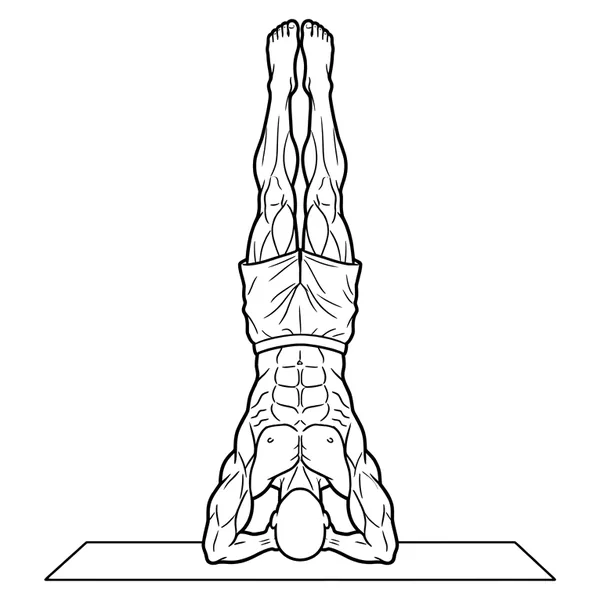
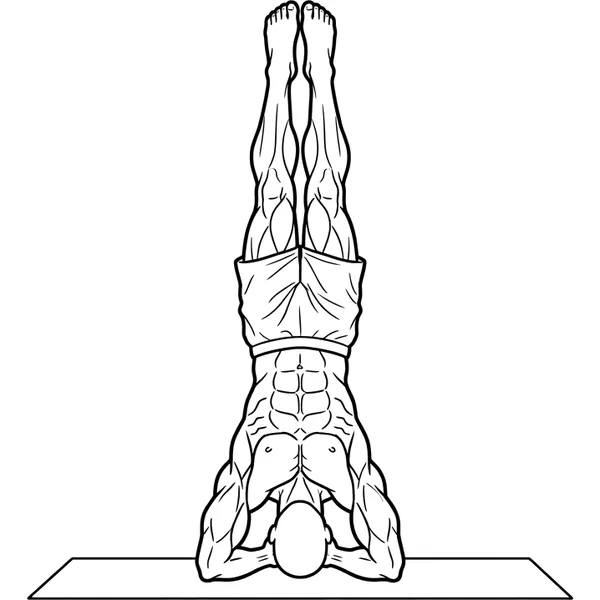
0.60.27: gemelos sentado (el peso sube) y sentadilla en multipower con foto de modelo; elevacion de gemelos que sube mas; sobre la cabeza alterna dos vistas cada 2 s; cabeza a la rodilla con la frente en la rodilla

Changed region(s): [[0.03, 0.0, 0.96, 1.0]]

diff --git a/web/sw.js b/web/sw.js
@@ -7,12 +7,12 @@
 // Solo se ocupa del CÓDIGO de la app. Los datos del usuario nunca pasan por
 // aquí: viven en el dispositivo (IndexedDB) y en su Google Drive.
 
-const VERSION = '0.60.26';
+const VERSION = '0.60.27';
 const CACHE = `entreno-${VERSION}`;
 // Las imágenes van en un almacén aparte que NO se borra al actualizar la app:
 // así se ven sin conexión aunque haya salido una versión nueva.
 // Si cambian las imágenes, se sube el número y los móviles bajan las nuevas.
-const CACHE_IMAGENES = 'entreno-imagenes-35';  // el mismo nombre en app.js (guardarImagenesParaSinConexion)
+const CACHE_IMAGENES = 'entreno-imagenes-36';  // el mismo nombre en app.js (guardarImagenesParaSinConexion)
 
 const ARCHIVOS = [
   './',

diff --git a/web/js/app.js b/web/js/app.js
@@ -236,7 +236,7 @@ async function guardarImagenesParaSinConexion() {
     const capas = Object.entries(MUSCULOS).flatMap(([clave, m]) => m.vistas.map((v) => archivoCapa(clave, v)));
     const cuerpo = ['imagenes/musculos/cuerpo-delante.svg', 'imagenes/musculos/cuerpo-detras.svg'];
     // El mismo nombre que CACHE_IMAGENES en sw.js: si no, el service worker lo borra.
-    const cache = await caches.open('entreno-imagenes-35');
+    const cache = await caches.open('entreno-imagenes-36');
     for (const ruta of [...cuerpo, ...capas, ...mios]) {
       if (!(await cache.match(ruta, { ignoreSearch: true }))) {
         const r = await fetch(ruta).catch(() => null);

diff --git a/web/js/version.js b/web/js/version.js
@@ -1,3 +1,3 @@
 // Versión del código de la app. Se sube en cada publicación y debe coincidir
 // con VERSION en sw.js, que es lo que hace que los móviles se actualicen.
-export const VERSION_APP = '0.60.26';
+export const VERSION_APP = '0.60.27';

diff --git a/herramientas/imagenes_ia.py b/herramientas/imagenes_ia.py
@@ -22,7 +22,7 @@ import json
 import pathlib
 import sys
 
-from PIL import Image
+from PIL import Image, ImageSequence
 
 sys.path.insert(0, str(pathlib.Path(__file__).parent))
 from animar_imagenes import mascara  # noqa: E402
@@ -244,6 +244,28 @@ def animar_mismo_lienzo(a, b, salida, tope=600, margen=24):
     marcos[0].save(salida, "WEBP", save_all=True, append_images=marcos[1:], duration=[900, 900], loop=0, quality=82, method=6)
 
 
+def partir_en_tres(im):
+    """Tres figuras en fila: corta por los dos huecos en blanco más anchos (uno en cada mitad)."""
+    tinta = mascara(im, 200)
+    ancho, alto = tinta.size
+    columnas = [sum(1 for y in range(0, alto, 2) if tinta.getpixel((x, y))) for x in range(ancho)]
+
+    def hueco(desde, hasta):
+        mejor, inicio, tramo = 0, None, (desde + hasta) // 2
+        for x in range(desde, hasta):
+            if columnas[x] <= 1:
+                inicio = x if inicio is None else inicio
+                if x - inicio > mejor:
+                    mejor, tramo = x - inicio, (inicio + x) // 2
+            else:
+                inicio = None
+        return tramo
+
+    c1 = hueco(int(ancho * 0.15), int(ancho * 0.5))
+    c2 = hueco(int(ancho * 0.5), int(ancho * 0.85))
+    return im.crop((0, 0, c1, alto)), im.crop((c1, 0, c2, alto)), im.crop((c2, 0, ancho, alto))
+
+
 def procesar(origen, modo="pies", espejo=False, solo=False, invertir=False, mover=None, escala=None, recorte=None, grosor=None):
     nombre = origen.stem.split("-", 1)[1]
     if origen.stem.startswith("completo-"):
@@ -275,8 +297,16 @@ def procesar(origen, modo="pies", espejo=False, solo=False, invertir=False, move
         animar_mismo_lienzo(im, segunda, SALIDA / f"{nombre}.webp")
         if nombre in REENCAJAR and REENCAJAR[nombre].get("ia"):
             op = REENCAJAR[nombre]
-            reencajar(nombre, op.get("zona"), mover=op.get("mover"), archivo=SALIDA / f"{nombre}.webp", fijo_desde=op.get("fijo_desde"))
+            reencajar(nombre, op.get("zona"), mover=op.get("mover"), archivo=SALIDA / f"{nombre}.webp", fijo_desde=op.get("fijo_desde"), subir=op.get("subir"))
         quieta(im, fija)
+        return nombre, True
+    if origen.stem.startswith("tres-"):
+        # «tres-<nombre>»: las dos piernas alternas (correr, escalador) en tres figuras: una pierna delante, el paso
+        # por el medio y la otra delante. Se anima ida y vuelta (1, 2, 3, 2), que es lo que la IA no sabe hacer con dos.
+        partes = [recortar(x, 0) for x in partir_en_tres(im)]
+        # Sin reencajar.py, que solo sabe de dos fotogramas: el ancla de peticiones.json basta.
+        animar([partes[0], partes[1], partes[2], partes[1]], SALIDA / f"{nombre}.webp", modo, duraciones=(450, 300, 450, 300), mover=mover)
+        quieta(partes[0], fija)
         return nombre, True
     if origen.stem.startswith(("fases-", "completo-")):
         if origen.stem.startswith("completo-"):
@@ -303,7 +333,7 @@ def procesar(origen, modo="pies", espejo=False, solo=False, invertir=False, move
         if nombre in REENCAJAR and REENCAJAR[nombre].get("ia"):
             # Afinado píxel a píxel por lo que no se mueve (herramientas/reencajar.py).
             op = REENCAJAR[nombre]
-            reencajar(nombre, op.get("zona"), mover=op.get("mover"), archivo=SALIDA / f"{nombre}.webp", fijo_desde=op.get("fijo_desde"))
+            reencajar(nombre, op.get("zona"), mover=op.get("mover"), archivo=SALIDA / f"{nombre}.webp", fijo_desde=op.get("fijo_desde"), subir=op.get("subir"))
         quieta(inicio, fija)
         return nombre, True
     if recorte:
@@ -317,7 +347,7 @@ def leer_tabla():
     """De peticiones.json: nombre del dibujo → {"ejercicios": [...], "ancla": ...}."""
     if not PETICIONES.exists():
         return {}
-    return {p["slug"]: {"ejercicios": [p["ejercicio"], *p.get("tambien", [])], "ancla": p.get("ancla", "pies"), "espejo": p.get("espejo", False), "solo": p.get("solo", False), "usar": p.get("usar"), "sinAlias": p.get("sinAlias", False), "invertir": p.get("invertir", False), "mover": p.get("mover"), "escala": p.get("escala"), "recorte": p.get("recorte"), "grosor": p.get("grosor")}
+    return {p["slug"]: {"ejercicios": [p["ejercicio"], *p.get("tambien", [])], "ancla": p.get("ancla", "pies"), "espejo": p.get("espejo", False), "solo": p.get("solo", False), "usar": p.get("usar"), "sinAlias": p.get("sinAlias", False), "invertir": p.get("invertir", False), "mover": p.get("mover"), "escala": p.get("escala"), "recorte": p.get("recorte"), "grosor": p.get("grosor"), "duracion": p.get("duracion")}
             for p in json.loads(PETICIONES.read_text(encoding="utf8"))}
 
 
@@ -423,7 +453,7 @@ def main():
     # «descartes» guarda los que salieron mal: no se usan.
     for carpeta in sorted(p for p in ORIGENES.iterdir() if p.is_dir() and p.name != "descartes"):
         for origen in sorted(carpeta.glob("*.jpg")) + sorted(carpeta.glob("*.png")):
-            if not origen.stem.startswith(("fases-", "quieto-", "completo-", "pasos-")):
+            if not origen.stem.startswith(("fases-", "quieto-", "completo-", "pasos-", "tres-")):
                 continue
             if origen.stem.startswith("pasos-") and not origen.stem.endswith("-1"):
                 continue
@@ -443,6 +473,13 @@ def main():
                 print("congelada " + salida)
                 continue
             nombre, animada = procesar(origen, modo, bool(opciones.get("espejo")), bool(opciones.get("solo")), bool(opciones.get("invertir")), opciones.get("mover"), opciones.get("escala"), opciones.get("recorte"), None if origen.stem.startswith("completo-") else opciones.get("grosor"))
+            if animada and opciones.get("duracion"):
+                # «duracion» en peticiones.json (ms por fotograma): dos vistas de una postura quieta que se alternan
+                # despacio (Dan: «sobre la cabeza, alternar las dos perspectivas cada 2 s»), no un movimiento.
+                anim = Image.open(SALIDA / f"{nombre}.webp")
+                marcos = [m.convert("RGB").copy() for m in ImageSequence.Iterator(anim)]
+                marcos[0].save(SALIDA / f"{nombre}.webp", "WEBP", save_all=True, append_images=marcos[1:],
+                               duration=opciones["duracion"], loop=0, quality=82, method=6)
             hechos.append((nombre, animada, carpeta.name))
             print(("animada " if animada else "quieta  ") + nombre)
     apuntar(hechos)

diff --git a/herramientas/reencajar.py b/herramientas/reencajar.py
@@ -45,7 +45,8 @@ REENCAJAR = {
     "dominadas-supinas": {"ia": True, "zona": (0.0, 0.0, 1.0, 0.1)},          # la barra y las manos
     "hip-thrust": {"ia": True, "zona": (0.0, 0.45, 0.35, 1.0)},               # el banco
     "face-pull": {"ia": True, "zona": (0.75, 0.0, 1.0, 1.0)},  # la columna (con las piernas fijas el muñeco se partía por la cintura)
-    "elevacion-de-gemelos-completo": {"ia": True, "zona": (0.0, 0.8, 1.0, 1.0)},  # el escalón
+    "elevacion-de-gemelos-completo": {"ia": True, "zona": (0.0, 0.8, 1.0, 1.0),    # el escalón
+                                      "subir": (0.73, 0.18, 24)},                   # 23-10, Dan: «que suba más»
     "puente-de-gluteo": {"ia": True, "zona": (0.0, 0.0, 0.35, 1.0)},          # la cabeza y los hombros en el suelo
     "encogimientos-de-trapecio": {"ia": True, "zona": (0.0, 0.9, 1.0, 1.0), "fijo_desde": 0.6},  # pies; piernas quietas
     "carrera": {"ia": True, "zona": (0.25, 0.0, 0.75, 0.4)},                  # cabeza y hombros (corre en el sitio)
@@ -91,7 +92,7 @@ def buscar(a, b, z, escala, centro, rango):
     return round(mejor_d[0] / escala), round(mejor_d[1] / escala)
 
 
-def reencajar(nombre, zona=None, rango=15, escala=0.25, mover=None, archivo=None, fijo_desde=None):
+def reencajar(nombre, zona=None, rango=15, escala=0.25, mover=None, archivo=None, fijo_desde=None, subir=None):
     """`archivo`: un WebP de la IA ya hecho (se reencaja tal cual); sin él, el animado de Everkinetic."""
     archivo_ia = archivo is not None
     fuente = Image.open(archivo) if archivo else original(nombre)
@@ -140,6 +141,20 @@ def reencajar(nombre, zona=None, rango=15, escala=0.25, mover=None, archivo=None
         c = tinta(salida[0]).getbbox()
         y = round(c[1] + (c[3] - c[1]) * fijo_desde)
         salida[1].paste(salida[0].crop((0, y, salida[0].width, salida[0].height)), (0, y))
+    if subir:
+        # La IA apenas levanta el cuerpo de puntillas (Dan: «que suba más»): en la segunda postura todo lo que
+        # queda por encima del tobillo sube `px` y el tramo bajo de las piernas se estira para llegar a los pies.
+        corte, tramo, px = subir
+        b2 = salida[1]
+        c = tinta(b2).getbbox()
+        yc = round(c[1] + (c[3] - c[1]) * corte)
+        s = round((c[3] - c[1]) * tramo)
+        px = min(px, c[1])
+        nueva = b2.copy()
+        nueva.paste(Image.new("RGB", (b2.width, yc), "white"), (0, 0))
+        nueva.paste(b2.crop((0, 0, b2.width, yc - s)), (0, -px))
+        nueva.paste(b2.crop((0, yc - s, b2.width, yc)).resize((b2.width, s + px), Image.LANCZOS), (0, yc - s - px))
+        salida[1] = nueva
     salida[0].save(archivo, "WEBP", save_all=True, append_images=salida[1:], duration=duraciones[:2], loop=0, quality=82, method=6)
     print(f"{nombre}: desplazada {dx}, {dy}")
     return True

diff --git a/imagenes-ia/cola.md b/imagenes-ia/cola.md
@@ -144,6 +144,10 @@ petición (el pez levantaba la cabeza; la goblet sale «de huevo», que lo decid
       Pendientes de esta sección y de la 3: gemelos en multipower, gemelos sentado (el peso no sube), sentadilla en
       multipower (pies y listón), tríceps en máquina (agarre y placas), curl en polea (cable), elevación de gemelos
       (que suba más), sóleo y supinas (Gemini no sabe; probar con ChatGPT).
+      0.60.27: hechos gemelos sentado, sentadilla en multipower, elevación de gemelos (sube más). Quedan: gemelos en
+      multipower, sóleo, supinas.
 ## 5. Animaciones (lo último)
 - [ ] Mountain climbers y carrera (3 imágenes), elíptica (cada mano en su palanca), escalera, zancadas (las dos),
       cabeza a la rodilla (meter la cabeza), sobre la cabeza (alternar las dos perspectivas cada 2 s).
+      0.60.27: hechos cabeza a la rodilla y sobre la cabeza. Para correr hay `tres-<nombre>` en imagenes_ia.py, pero
+      Gemini pinta la primera y la tercera figura iguales (no alterna piernas): probar con ChatGPT.

diff --git a/CLAUDE.md b/CLAUDE.md
@@ -1217,4 +1217,9 @@ fase), tras probar la A.
   patada de glúteo en polea (pasa a `usar: ia`), sentadilla hack (fuera de `CONGELADOS`), máquina de glúteo y esquí de fondo,
   todos con una captura de una foto con las dos posturas como modelo (método en `imagenes-ia/cola.md`). Elevaciones laterales
   con las piernas fijas (`fijo_desde`) y cabeza lisa. Almacén `entreno-imagenes-35`.
+- 0.60.27: gemelos sentado (el peso sube; `usar: ia`) y sentadilla en multipower (de frente) con foto de modelo; elevación de
+  gemelos que sube más (`subir` en reencajar.py: el cuerpo sube y el tramo bajo de las piernas se estira); «sobre la cabeza»
+  alterna vista de frente y de lado cada 2 s (`duracion` en peticiones.json); cabeza a la rodilla con la frente en la rodilla.
+  Preparado `tres-<nombre>` (tres figuras animadas 1-2-3-2) para correr y escalador, pero Gemini dibuja la 1 y la 3 iguales.
+  Almacén `entreno-imagenes-36`.
 
